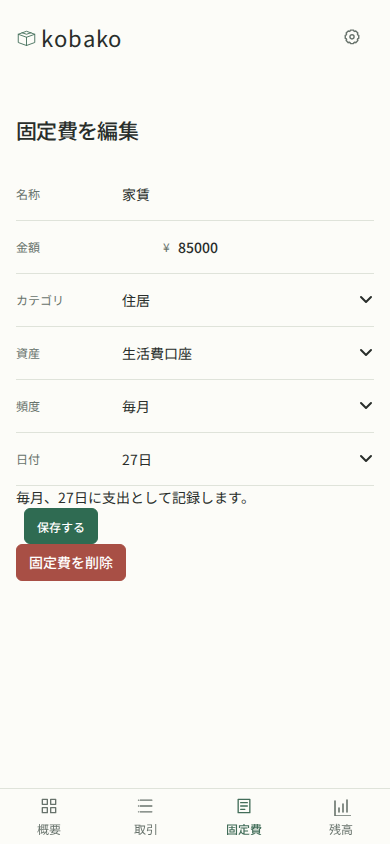
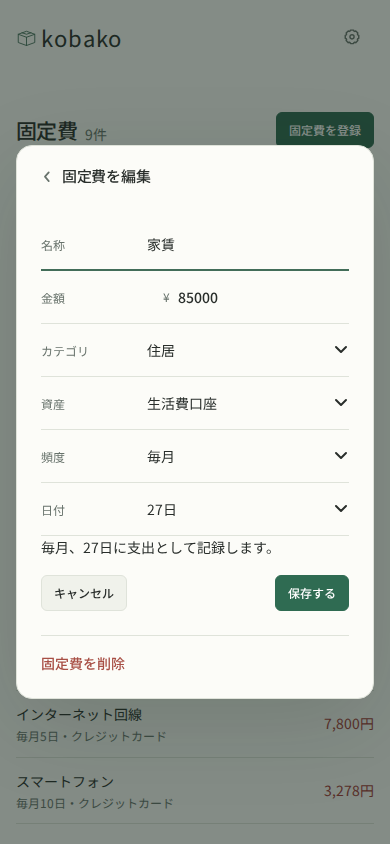
fix: align fixed cost card actions
Place the cancel and primary buttons at the form edges like the
transaction card, and render delete as a separated text button below
the action row instead of a filled danger button.

diff --git a/apps/web/app/fixed-costs/fixed-cost-form.tsx b/apps/web/app/fixed-costs/fixed-cost-form.tsx
@@ -253,29 +253,33 @@ export function FixedCostForm({
           </p>
         ) : null}
         <div
-          className={`${formsStyles['form-actions']} ${formsStyles['form-actions-with-cancel']}`}
+          className={[
+            formsStyles['save-button-options'],
+            showCancel && formsStyles['save-button-options-with-cancel'],
+            styles.actions,
+          ]
+            .filter(Boolean)
+            .join(' ')}
         >
           {showCancel ? (
             <Button variant="secondary" type="button" onClick={() => router.back()}>
               キャンセル
             </Button>
-          ) : (
-            <span />
-          )}
+          ) : null}
           <Submit label={submitLabel} />
         </div>
       </form>
       {deleteAction ? (
         <form
           action={deleteAction}
-          className={formsStyles['delete-action']}
+          className={styles.deleteBlock}
           onSubmit={(event) => {
             if (!window.confirm('この固定費を削除しますか？')) event.preventDefault();
           }}
         >
-          <Button variant="danger" type="submit">
+          <button type="submit" className={styles.deleteButton}>
             固定費を削除
-          </Button>
+          </button>
         </form>
       ) : null}
     </>

diff --git a/apps/web/app/fixed-costs/fixed-costs.module.css b/apps/web/app/fixed-costs/fixed-costs.module.css
@@ -436,6 +436,36 @@
   font-weight: var(--weight-regular);
 }
 
+.actions {
+  margin-top: var(--space-group);
+}
+
+.deleteBlock {
+  margin-top: var(--space-block);
+  padding-top: var(--space-group);
+  border-top: 1px solid var(--rule);
+}
+
+.deleteButton {
+  display: inline-flex;
+  align-items: center;
+  height: 22px;
+  padding: 0;
+  border: 0;
+  background: transparent;
+  color: var(--button-danger);
+  font: inherit;
+  font-size: var(--text-body);
+  font-weight: var(--weight-medium);
+  line-height: 22px;
+  cursor: pointer;
+}
+
+.deleteButton:hover {
+  text-decoration: underline;
+  text-underline-offset: 0.2em;
+}
+
 @media (max-width: 40rem) {
   .summary {
     margin-block: 1.5rem 0;
